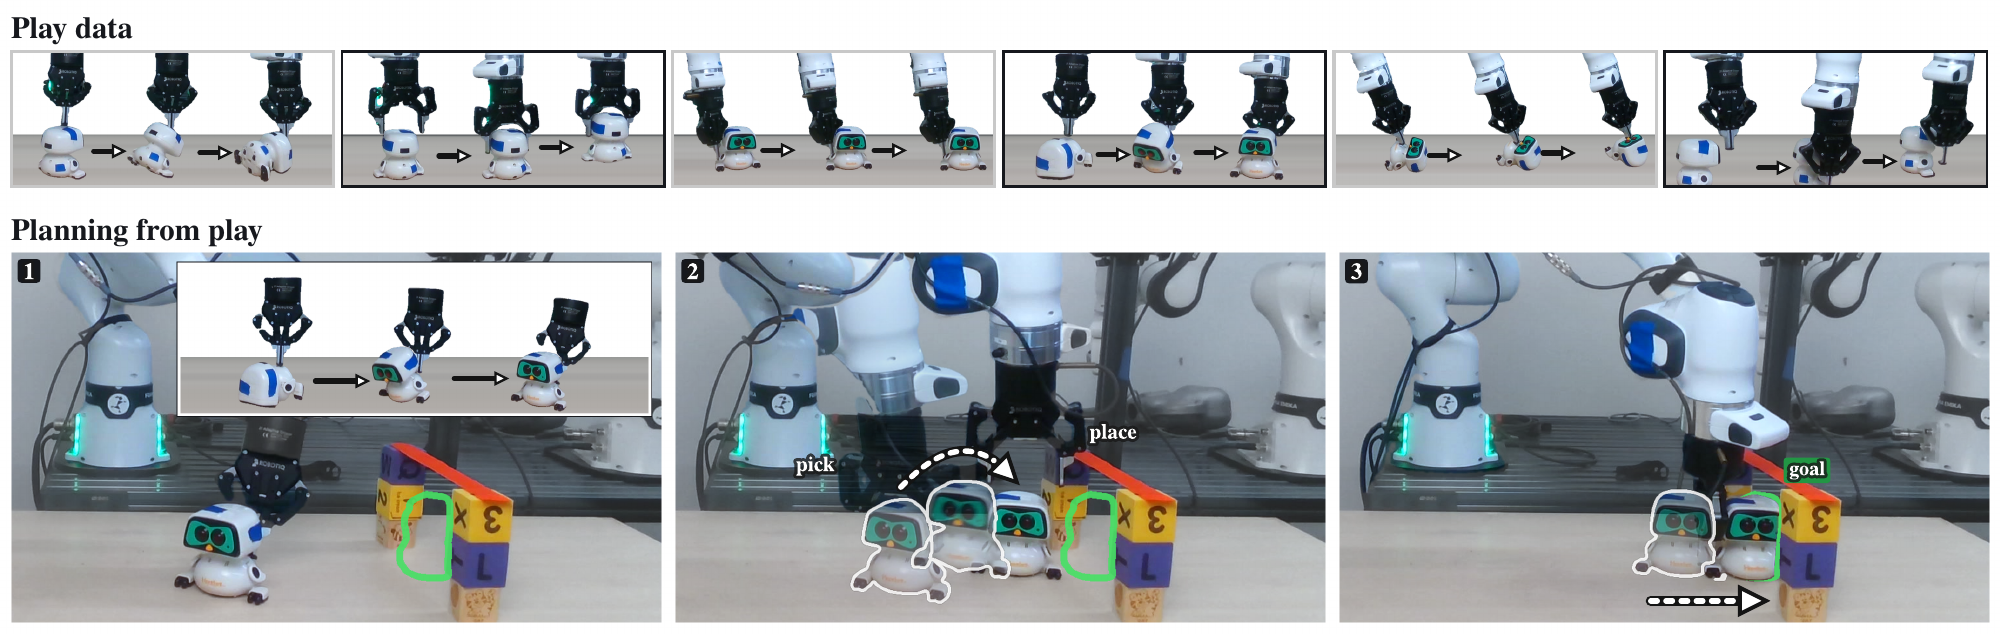
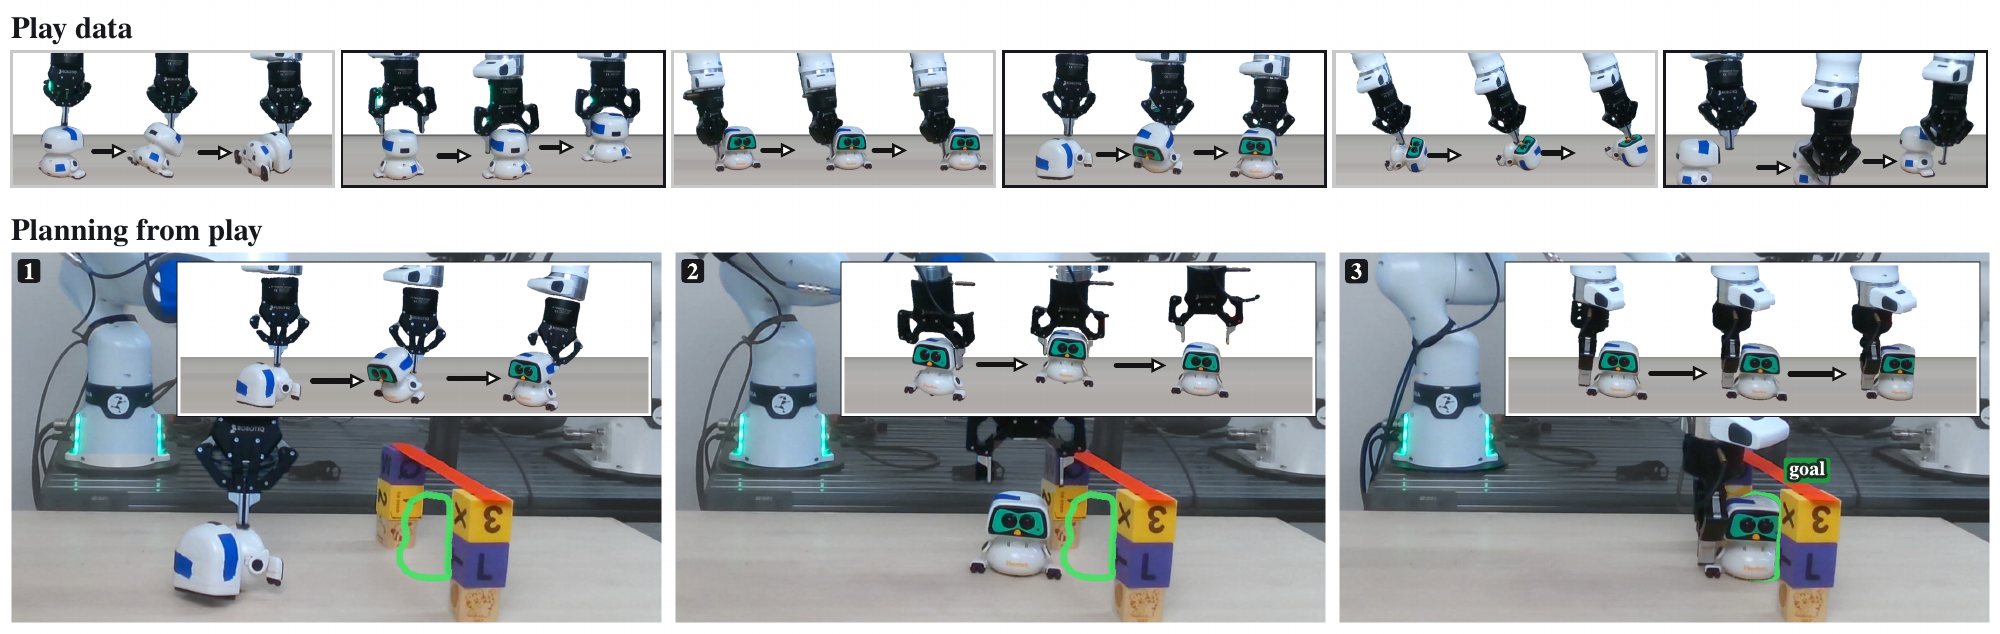
Match the paper: new teaser and caption, exploratory play, data-completeness takeaway, counts in transitions, searches meet at a subgoal

diff --git a/index.html b/index.html
@@ -165,7 +165,7 @@
 
 <figure>
   <div class="wide"><img src="fig/teaser.png" alt="Top: play data on an open table. Bottom: the robot tips the Hootbot upright, carries it and pushes it under a bridge."></div>
-  <figcaption><b>Planning from play.</b> Task-agnostic play (top) records how the robot's interactions move the Hootbot on an open table, each relative to the object. Facing a bridge at test time (bottom), the planner grounds three of these interactions at new poses and composes them to tip the Hootbot upright, carry it to the bridge and push it under, replanning after each outcome. The goal is outlined in green.</figcaption>
+  <figcaption><b>Planning from play.</b> Play data (top) records open-ended interactions on an open table to capture how the Hootbot responds to contact, segmented into object-relative transitions. A bridge (bottom) is added at test time, and our planner grounds three of these transitions (outlined above) at new poses and composes them to tip the Hootbot upright, carry it to the bridge, and push it under, replanning after each outcome. The goal is outlined in green.</figcaption>
 </figure>
 
 <h2>Video</h2>
@@ -179,10 +179,11 @@
 
 <h2>Key takeaways</h2>
 <ol class="takeaways">
-  <li><b>Minutes of play are enough.</b> 5 to 11 minutes per object support plans of up to 14 interactions, with new goals and obstacles.</li>
+  <li><b>Minutes of play are enough.</b> 5 to 11 minutes per object support plans of up to 14 transitions, with new goals and obstacles.</li>
   <li><b>Learn only what is hard to model.</b> Contact outcomes come from play. Reachability, collisions and free-space motion come from the robot model and scene geometry.</li>
   <li><b>Express interactions relative to the object.</b> A push recorded at one spot becomes a candidate push anywhere on the table.</li>
   <li><b>Search, then replan.</b> Replanning after every transition absorbs execution error. Search finds detours that a greedy controller would miss.</li>
+  <li><b>Coverage decides what is solvable.</b> Without search bounds, the planner finds a plan whenever its transitions can compose one.</li>
 </ol>
 
 <h2>Method</h2>
@@ -191,7 +192,7 @@
   <div>
     <h3>1. Play becomes transitions</h3>
 <ul class="points">
-  <li><b>Play with no task in mind.</b> <span>An operator pushes, slides, tips and picks the object.</span></li>
+  <li><b>Play with no task in mind.</b> <span>Developmental psychology calls this exploratory play, in which infants test a new object to see how it behaves. Here an operator pushes, slides, tips and picks the object.</span></li>
   <li><b>Cut where the object is at rest.</b> <span>On a face on the table, or grasped.</span></li>
   <li><b>Record everything relative to the object.</b> <span>The gripper motion and the object displacement, in the object's own frame.</span></li>
 </ul>
@@ -221,7 +222,7 @@
 <ul class="points">
   <li><b>Scan the scene once.</b> <span>Depth cameras give the obstacle geometry.</span></li>
   <li><b>Keep only feasible transitions.</b> <span>The object clears obstacles, and the arm can follow the motion without collisions.</span></li>
-  <li><b>Search from both ends.</b> <span>Forward from the start and backward from the goal, meeting at a recorded interaction. Plans are scored by their interactions and object motion, plus the remaining distance to the goal pose.</span></li>
+  <li><b>Search from both ends.</b> <span>Forward from the start and backward from the goal, meeting at a subgoal. Plans are scored by their transitions and object motion, plus the remaining distance to the goal pose.</span></li>
 </ul>
 <figure>
   <div class="wide"><img src="fig/planning-framework.png" alt="Planning framework on a toy train: transitions from play, workspace constraints with a barrier and low shelf, and forward and backward search over support modes."></div>
@@ -247,7 +248,7 @@
 <ul class="points">
   <li><b>A bridge never seen in play.</b> <span>Three objects must end up under it.</span></li>
   <li><b>Reorientation first.</b> <span>The Hootbot and the train start on their sides.</span></li>
-  <li><b>26 of 30 trials succeed.</b> <span>Within 10&nbsp;mm and 10°, with a median of five interactions.</span></li>
+  <li><b>26 of 30 trials succeed.</b> <span>Within 10&nbsp;mm and 10°, with a median of five transitions.</span></li>
 </ul>
 <p class="hint">Pick an object and a method. Trial numbers are the same for all methods, so the same trial starts from the same pose.</p>
 <div class="viewer" id="v-real">
@@ -272,10 +273,10 @@
 <ul class="points">
   <li><b>Pushed away, then replanned.</b> <span>The plan continues from wherever the object lands.</span></li>
   <li><b>New obstacle layouts and goals.</b> <span>The same play data, with no new recording.</span></li>
-  <li><b>Longer plans.</b> <span>Up to 23 interactions, mixing pushes with picks and places.</span></li>
+  <li><b>Longer plans.</b> <span>Up to 23 transitions, mixing pushes with picks and places.</span></li>
 </ul>
 <div class="viewer" id="v-qual">
-<script type="application/json">{"groups":[{"name":"","methods":[{"name":"","title":"","items":[{"src":"vid/qual/spoon_perturb.mp4","cap":"The spoon is pushed away twice by hand. The robot replans and still reaches the goal. Final error 9.9&nbsp;mm, 1.8°."},{"src":"vid/qual/hootbot_two_bridges.mp4","cap":"Two bridges. The Hootbot slides out from under one and is pushed under the other, in 8 interactions. Final error 2.5&nbsp;mm, 8.0°."},{"src":"vid/qual/spoon_show_t01.mp4","cap":"A new layout for the spoon, solved in 4 interactions. Final error 3.9&nbsp;mm, 7.2°."},{"src":"vid/qual/spoon_show_t07.mp4","cap":"Another layout, with the goal 34&nbsp;cm away and turned 70°. 10 interactions. Final error 5.6&nbsp;mm, 3.4°."},{"src":"vid/qual/hootbot_show_t07.mp4","cap":"The Hootbot must end between two towers, under a bar. Pushes plus two pick and places, 23 interactions. Final error 5.6&nbsp;mm, 8.5°."}]}]}],"glabel":""}</script>
+<script type="application/json">{"groups":[{"name":"","methods":[{"name":"","title":"","items":[{"src":"vid/qual/spoon_perturb.mp4","cap":"The spoon is pushed away twice by hand. The robot replans and still reaches the goal. Final error 9.9&nbsp;mm, 1.8°."},{"src":"vid/qual/hootbot_two_bridges.mp4","cap":"Two bridges. The Hootbot slides out from under one and is pushed under the other, in 8 transitions. Final error 2.5&nbsp;mm, 8.0°."},{"src":"vid/qual/spoon_show_t01.mp4","cap":"A new layout for the spoon, solved in 4 transitions. Final error 3.9&nbsp;mm, 7.2°."},{"src":"vid/qual/spoon_show_t07.mp4","cap":"Another layout, with the goal 34&nbsp;cm away and turned 70°. 10 transitions. Final error 5.6&nbsp;mm, 3.4°."},{"src":"vid/qual/hootbot_show_t07.mp4","cap":"The Hootbot must end between two towers, under a bar. Pushes plus two pick and places, 23 transitions. Final error 5.6&nbsp;mm, 8.5°."}]}]}],"glabel":""}</script>
 </div>
 
 <h2>Simulation</h2>
